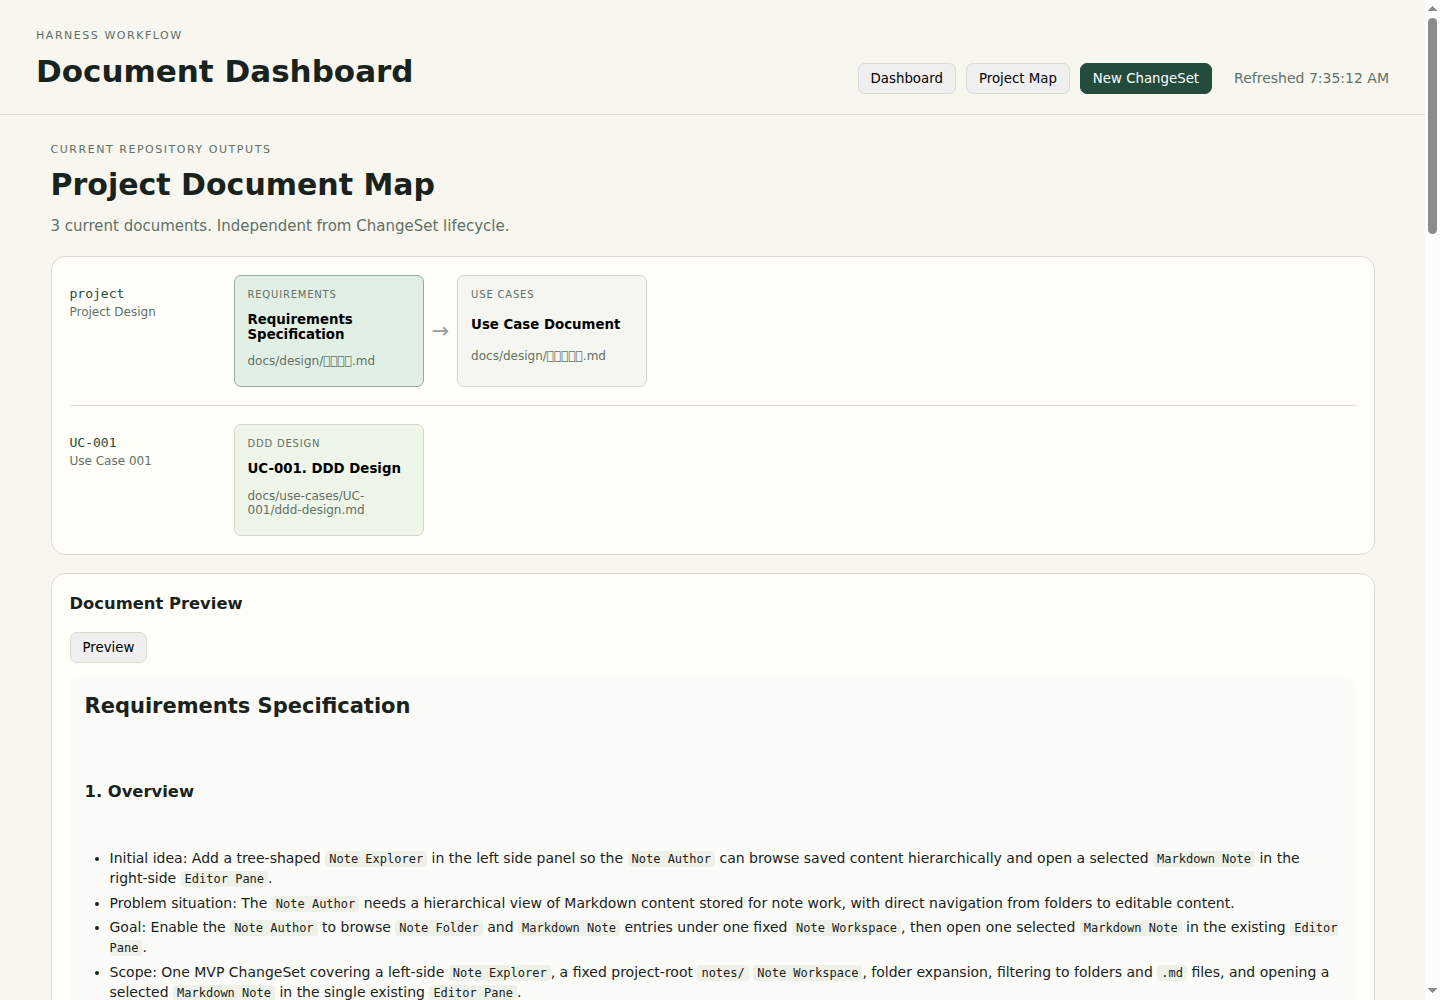
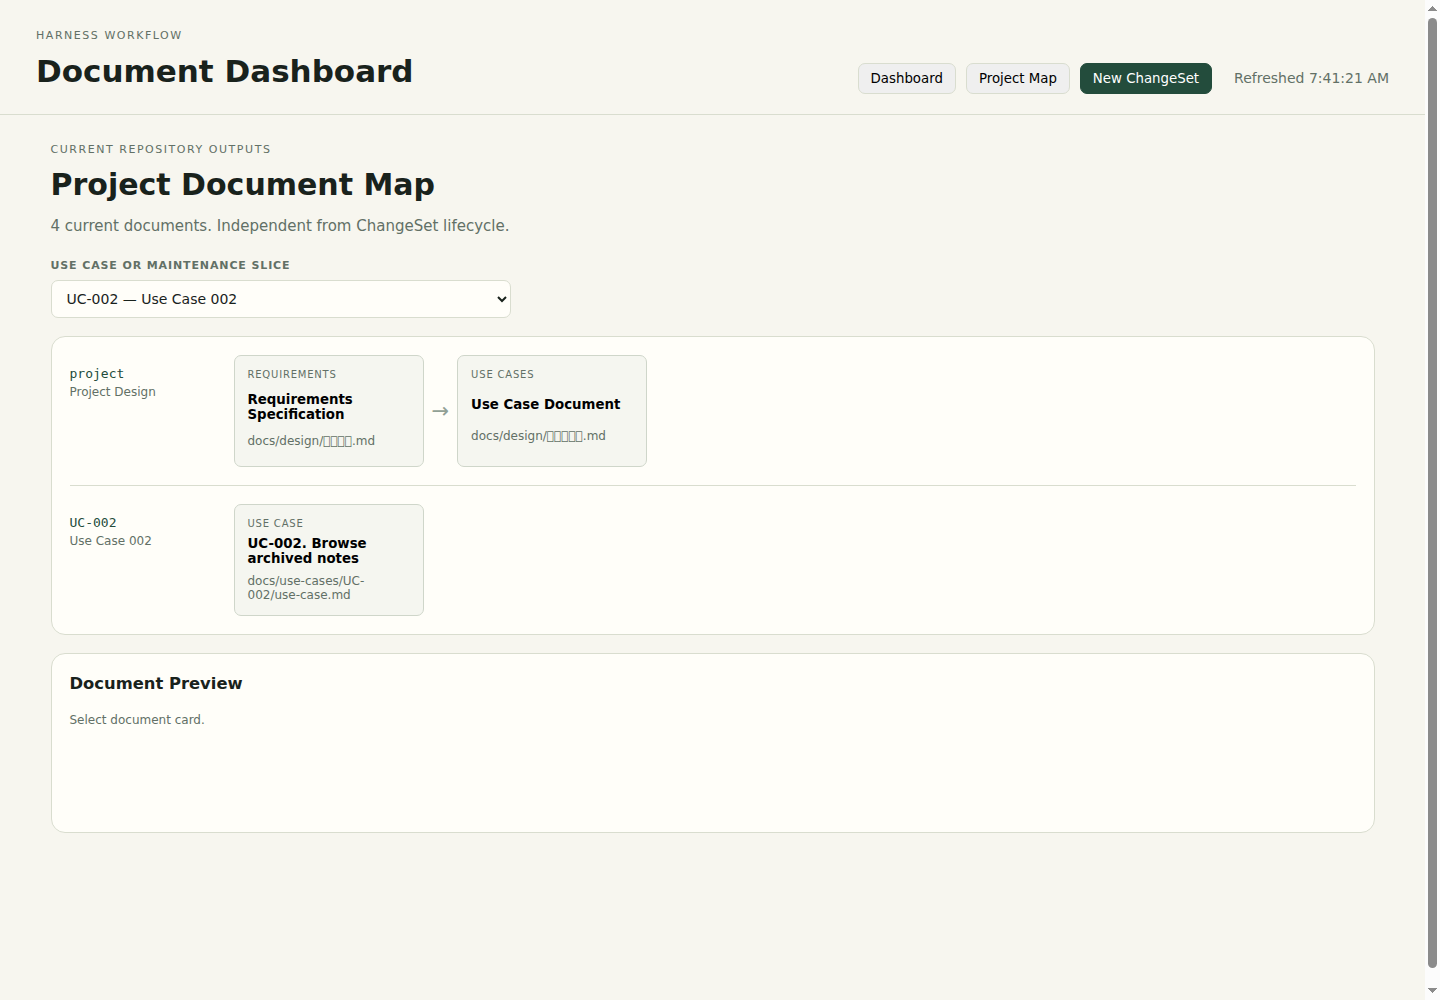
프로젝트 문서 맵에 슬라이스 선택 추가

diff --git a/harness_codex/runtime/dashboard_assets/dashboard.js b/harness_codex/runtime/dashboard_assets/dashboard.js
@@ -2,6 +2,7 @@ const app = {
   state: { change_sets: [], project_documents: { lanes: [], document_count: 0 } },
   selectedChangeSet: null,
   openDocument: null,
+  projectSelectedLane: null,
   editorMode: "preview",
   view: "dashboard",
   harvest: null,
@@ -314,29 +315,49 @@ function render() {
 
 function renderProjectDocuments() {
   const project = app.state.project_documents || { lanes: [], document_count: 0 };
-  const lanes = project.lanes.map((lane) => `
-    <section class="project-doc-lane">
-      <header><strong>${escapeHtml(lane.id)}</strong><span>${escapeHtml(lane.label)}</span></header>
-      <div class="project-doc-flow">
-        ${lane.documents.map((document, index) => `
-          ${index ? '<span class="project-doc-arrow" aria-hidden="true">→</span>' : ""}
-          <button class="project-doc-card kind-${escapeHtml(document.kind)}" data-project-document="${escapeHtml(document.id)}">
-            <span class="project-doc-stage">${escapeHtml(document.stage_label)}</span>
-            <strong>${escapeHtml(document.label)}</strong>
-            <span class="small">${escapeHtml(document.path)}</span>
-          </button>`).join("")}
-      </div>
-    </section>`).join("");
+  const projectLane = project.lanes.find((lane) => lane.id === "project");
+  const scopedLanes = project.lanes.filter((lane) => lane.id !== "project");
+  const selectedLane = scopedLanes.find((lane) => lane.id === app.projectSelectedLane) || scopedLanes[0];
+  app.projectSelectedLane = selectedLane?.id || null;
+  const selector = scopedLanes.length ? `<div class="project-lane-picker">
+    <label for="project-lane-select">Use case or maintenance slice</label>
+    <select id="project-lane-select">
+      ${scopedLanes.map((lane) => `<option value="${escapeHtml(lane.id)}" ${lane.id === selectedLane?.id ? "selected" : ""}>${escapeHtml(lane.id)} — ${escapeHtml(lane.label)}</option>`).join("")}
+    </select>
+  </div>` : "";
+  const lanes = [projectLane, selectedLane].filter(Boolean).map(renderProjectDocumentLane).join("");
   return `<section class="workflow-page project-documents-page">
     <p class="eyebrow">Current repository outputs</p>
     <h2>Project Document Map</h2>
     <p class="lead">${escapeHtml(project.document_count)} current documents. Independent from ChangeSet lifecycle.</p>
+    ${selector}
     <section class="panel project-doc-map">${lanes || '<p>No supported project documents found.</p>'}</section>
     <section class="panel project-doc-preview"><h3>Document Preview</h3><div id="editor"><p class="small">Select document card.</p></div></section>
   </section>`;
 }
 
+function renderProjectDocumentLane(lane) {
+  return `<section class="project-doc-lane">
+    <header><strong>${escapeHtml(lane.id)}</strong><span>${escapeHtml(lane.label)}</span></header>
+    <div class="project-doc-flow">
+      ${lane.documents.map((document, index) => `
+        ${index ? '<span class="project-doc-arrow" aria-hidden="true">→</span>' : ""}
+        <button class="project-doc-card kind-${escapeHtml(document.kind)}" data-project-document="${escapeHtml(document.id)}">
+          <span class="project-doc-stage">${escapeHtml(document.stage_label)}</span>
+          <strong>${escapeHtml(document.label)}</strong>
+          <span class="small">${escapeHtml(document.path)}</span>
+        </button>`).join("")}
+    </div>
+  </section>`;
+}
+
 function bindProjectDocuments() {
+  const laneSelect = document.querySelector("#project-lane-select");
+  if (laneSelect) laneSelect.onchange = () => {
+    app.projectSelectedLane = laneSelect.value;
+    app.openDocument = null;
+    render();
+  };
   document.querySelectorAll("[data-project-document]").forEach((node) => {
     node.onclick = async () => {
       await openDocument(node.dataset.projectDocument);

diff --git a/harness_codex/runtime/dashboard_assets/dashboard.css b/harness_codex/runtime/dashboard_assets/dashboard.css
@@ -109,6 +109,9 @@ details { margin-top: 10px; }
 .stage-tab.selected { border-bottom-color: var(--accent); color: var(--accent); font-weight: 600; }
 .dashboard-tabs { margin: 12px 0 18px; }
 .project-documents-page { max-width: min(1720px, calc(100vw - 48px)); }
+.project-lane-picker { align-items: end; display: grid; gap: 6px; grid-template-columns: minmax(280px, 460px); margin: 20px 0 4px; }
+.project-lane-picker label { color: var(--muted); font-size: 11px; font-weight: 600; letter-spacing: .08em; text-transform: uppercase; }
+.project-lane-picker select { background: var(--paper); border: 1px solid var(--line); border-radius: 7px; color: var(--ink); font: inherit; padding: 9px 11px; }
 .project-doc-map { display: grid; gap: 18px; overflow-x: auto; }
 .project-doc-lane { border-bottom: 1px solid var(--line); display: grid; gap: 14px; grid-template-columns: 150px minmax(760px, 1fr); padding-bottom: 18px; }
 .project-doc-lane:last-child { border-bottom: 0; padding-bottom: 0; }
